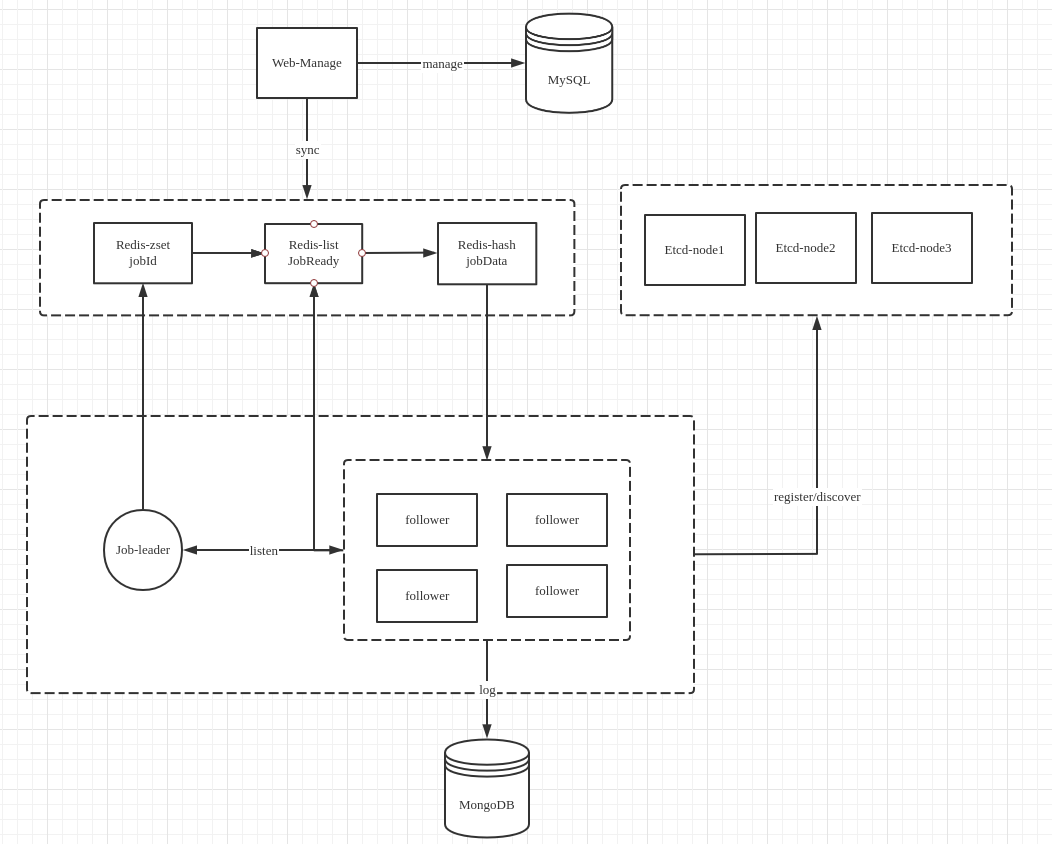
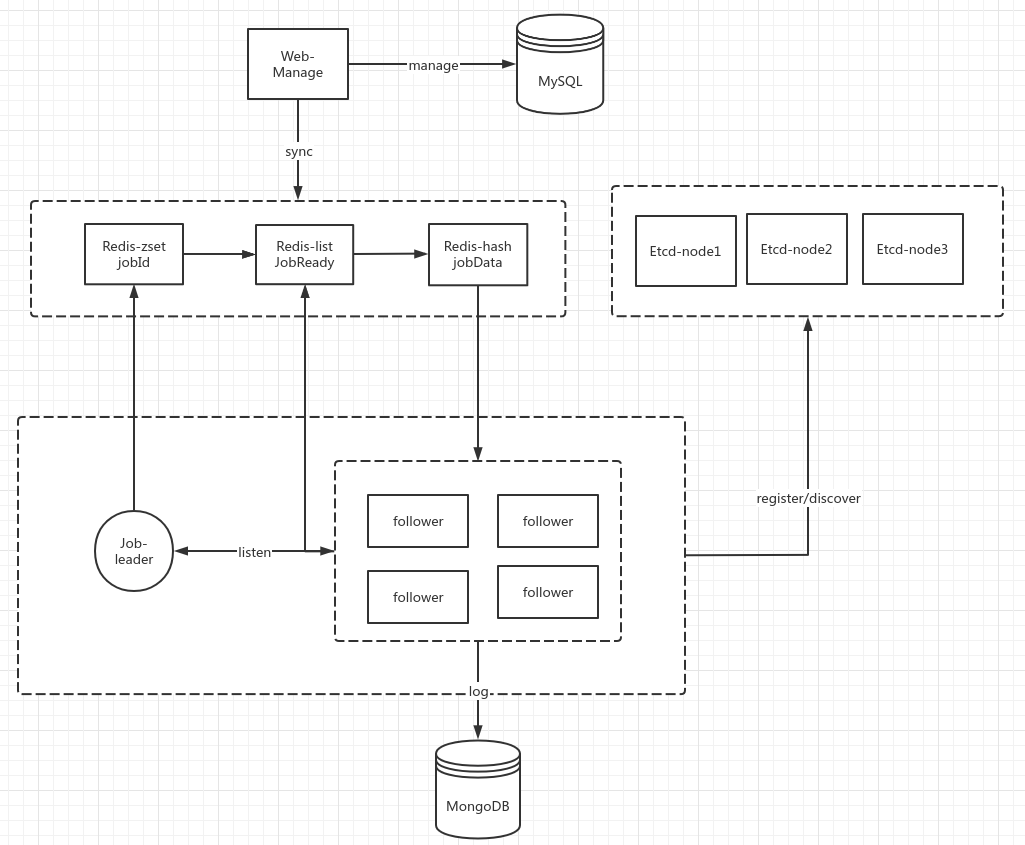
update

diff --git a/README.md b/README.md
@@ -1,8 +1,26 @@
 # gcron
 
-Go语言实现的分布式高可用定时任务系统
+Go语言实现的分布式高可用定时任务系统 <br />
+
+#关系说明
+本系统拆分为两个独立的项目：
+1. 管理面板 [gcron-api](https://github.com/artfoxe6/gcron-api) <br />
+    >负责定时任务的增删改查，执行日志查看，和调度执行服务通讯
+2. 调度和任务系统
+    >单个调度节点和若干个任务节点 <br />
+    调度节点和任务节点启动无任何区别，节点间通过竞选选出调度节点，
+    调度节点挂掉后会自动重选
 
 # 系统架构
- ![系统架构](https://raw.githubusercontent.com/artfoxe6/gcron/master/images/system.png)
+1. 简明架构流程
+    >通过管理面板添加定时任务，当然不仅仅能通过面板添加，面板系统还提供http和rpc方式添加任务<br />
+     任务的添加修改删除，会更新到MySQL，并同步到Redis <br/>
+     启动调度和任务系统，调度器将需要执行的任务放到ready队列中，<br/>
+     任务节点从ready中拉取任务并执行<br/>
+    
+    > Redis在其中起到关键的作用，<br/>
+      
+2. 架构图（未FQ无法查看，请下载项目到本地，在目录images下）：
+ ![系统架构图](https://raw.githubusercontent.com/artfoxe6/gcron/master/images/system.png)
 # 节点启动流程图
  ![节点启动流程图](https://raw.githubusercontent.com/artfoxe6/gcron/master/images/node.png)
